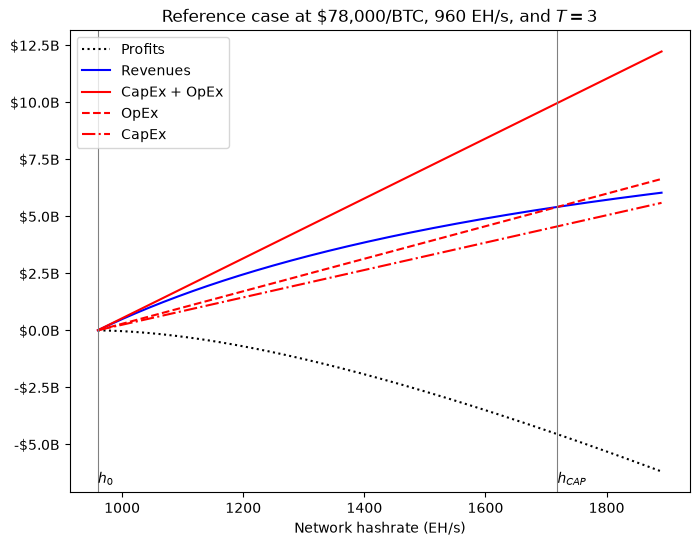
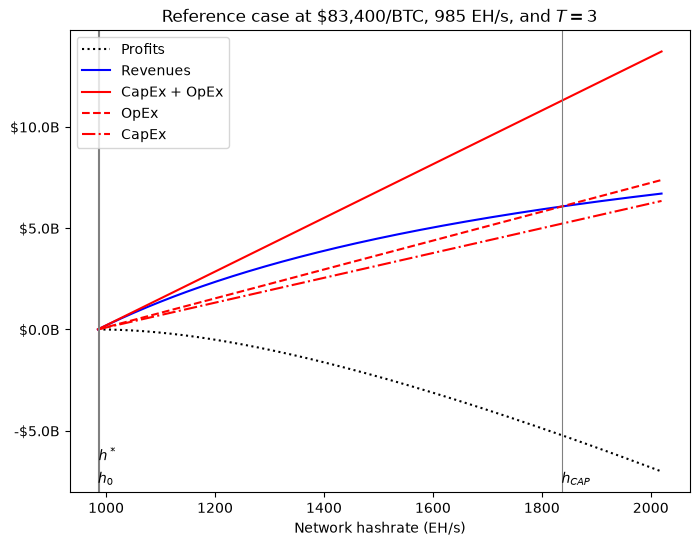
feat: refresh fast-moving reference parameters to October 2026
B 78,000 -> 83,400; h0 960,000 -> 985,000 PHa; F 3 -> 2.58 BTC/day;
INV 18,000 -> 18,380 $/PHa. Other inputs keep May 2026 values.

h* now exceeds h0 (986,217 PHa), so the reference case no longer hits
the clamp; add a low-price test for it and move the profitable-case
tests to $100K. Stagger plot marker labels so h0 and h* stay legible.

diff --git a/miningReferenceCalc.py b/miningReferenceCalc.py
@@ -1,8 +1,8 @@
 from math import sqrt
 
-refTechData = [40.0 * 12 / 1000.0, 18000, 13500, 1.10, 0.95, 8.5*1e6] # CLC ($/kW/m, $40/kW/mo = $0.055/kWh competitive industrial rate per OneMiners/D-Central May 2026), INV ($/PHa, ~$18/TH Bitmain S21 XP per HashrateIndex May 2026), POW (W/PHa, 13.5 J/TH Bitmain S21 XP), PUE (1.10, efficient air-cooled facility; industry avg 1.18, immersion 1.02-1.06 per CCAF/CoinShares Q1 2026), UTZ (0.95, industry median 90-94% with curtailment; well-run modern facility 95-98% per CoinShares/HashrateIndex Q1 2026), NRE ($ midpoint of $700K-$1M/MW x 10 MW reference facility per CoinShares Q1 2026)
+refTechData = [40.0 * 12 / 1000.0, 18380, 13500, 1.10, 0.95, 8.5*1e6] # CLC ($/kW/m, $40/kW/mo = $0.055/kWh competitive industrial rate per OneMiners/D-Central May 2026, not re-verified Oct 2026), INV ($/PHa, $18.38/TH under-14 J/TH tier per The Block ASIC Price Index Sep 27 2026), POW (W/PHa, 13.5 J/TH Bitmain S21 XP), PUE (1.10, efficient air-cooled facility; industry avg 1.18, immersion 1.02-1.06 per CCAF/CoinShares Q1 2026, not re-verified Oct 2026), UTZ (0.95, industry median 90-94% with curtailment; well-run modern facility 95-98% per CoinShares/HashrateIndex Q1 2026, not re-verified Oct 2026), NRE ($ midpoint of $700K-$1M/MW x 10 MW reference facility per CoinShares Q1 2026, not re-verified Oct 2026)
 
-refMktData = [78000, 164250, 3*365, 960000, 3] # BTC Price ($, ~$77,900 per CoinGecko/CoinMarketCap May 16 2026), Annual supply (BTC/yr at 3.125 BTC/block), Annual fees (BTC/yr, ~3 BTC/day on-chain May 2026), Network hashrate (PHa, 935-994 EH/s per CoinWarz/Minerstat May 2026), Amortization (years, 3yr confirmed as standard by Riot/Marathon/Cipher 2025-2026 filings per CoinShares Q1 2026)
+refMktData = [83400, 164250, 2.58*365, 985000, 3] # BTC Price ($, ~$83,400 per Fortune/BitInfoCharts Oct 13 2026), Annual supply (BTC/yr at 3.125 BTC/block), Annual fees (BTC/yr, 2.58 BTC/day over blocks 970,306-971,313 per mempool.space Oct 2026), Network hashrate (PHa, difficulty 132.72T at 9:38 avg block time per mempool.space Oct 13 2026; daily estimates 971-1,089 EH/s), Amortization (years, 3yr confirmed as standard by Riot/Marathon/Cipher 2025-2026 filings per CoinShares Q1 2026)
 
 def calcHashrates(refTechData, refMktData) :
     """ Calculates hCAP, hSTAR, hBE_U/L """

diff --git a/tests/test_miningReferenceCalc.py b/tests/test_miningReferenceCalc.py
@@ -25,14 +25,19 @@ def profit(h, tech, market):
 
 def test_reference_values():
     hCAP, hSTAR, hBE_upper, hBE_lower = calcHashrates(refTechData, refMktData)
-    assert hCAP == pytest.approx(1_718_864.2677)
-    assert hSTAR == refMktData[3]  # unconstrained optimum 946,544 < h0, clamped
-    assert math.isnan(hBE_upper) and math.isnan(hBE_lower)
-    assert calcImpliedT(refTechData, refMktData) == pytest.approx(3.41344, rel=1e-5)
+    assert hCAP == pytest.approx(1_836_158.5846)
+    assert hSTAR == pytest.approx(986_217.3743)
+    assert math.isnan(hBE_upper) and math.isnan(hBE_lower)  # NRE/T exceeds the marginal gain
+    assert calcImpliedT(refTechData, refMktData) == pytest.approx(3.17866, rel=1e-5)
+
+
+def test_hSTAR_clamped_to_h0_when_unconstrained_optimum_is_below_it():
+    _, hSTAR, _, _ = calcHashrates(refTechData, mkt(btc=70_000))
+    assert hSTAR == refMktData[3]
 
 
 def test_profitable_case_is_consistent_with_profit_function():
-    market = mkt(btc=85_000)
+    market = mkt(btc=100_000)
     _, hSTAR, hBE_upper, hBE_lower = calcHashrates(refTechData, market)
     assert market[3] < hBE_lower < hSTAR < hBE_upper
     scale = profit(hSTAR, refTechData, market)
@@ -45,9 +50,9 @@ def test_profitable_case_is_consistent_with_profit_function():
 
 
 def test_breakevens_merge_at_implied_T():
-    market = mkt(btc=85_000)
+    market = mkt(btc=100_000)
     T = calcImpliedT(refTechData, market)
-    _, _, upper, lower = calcHashrates(refTechData, mkt(btc=85_000, amz=T * 1.000001))
+    _, _, upper, lower = calcHashrates(refTechData, mkt(btc=100_000, amz=T * 1.000001))
     assert upper == pytest.approx(lower, rel=1e-3)
 
 

diff --git a/plotReference.py b/plotReference.py
@@ -34,10 +34,11 @@ def plotReference(refTechData, refMktData, path):
 
     marks = {r"$h_0$": h0, r"$h^*$": hSTAR, r"$h_{BE}^{Lower}$": hBE_lower,
              r"$h_{BE}^{Upper}$": hBE_upper, r"$h_{CAP}$": hCAP}
-    for label, x in marks.items():
-        if np.isfinite(x) and (label == r"$h_0$" or x > h0):
-            ax.axvline(x / 1000, color="grey", lw=0.8)
-            ax.annotate(label, (x / 1000, 0.02), xycoords=("data", "axes fraction"))
+    shown = [(label, x) for label, x in marks.items()
+             if np.isfinite(x) and (label == r"$h_0$" or x > h0)]
+    for i, (label, x) in enumerate(shown):
+        ax.axvline(x / 1000, color="grey", lw=0.8)
+        ax.annotate(label, (x / 1000, 0.02 + 0.05 * (i % 2)), xycoords=("data", "axes fraction"))
 
     ax.set_xlabel("Network hashrate (EH/s)")
     ax.yaxis.set_major_formatter(lambda y, _: f"{'-' if y < 0 else ''}\\${abs(y) / 1e9:,.1f}B")
